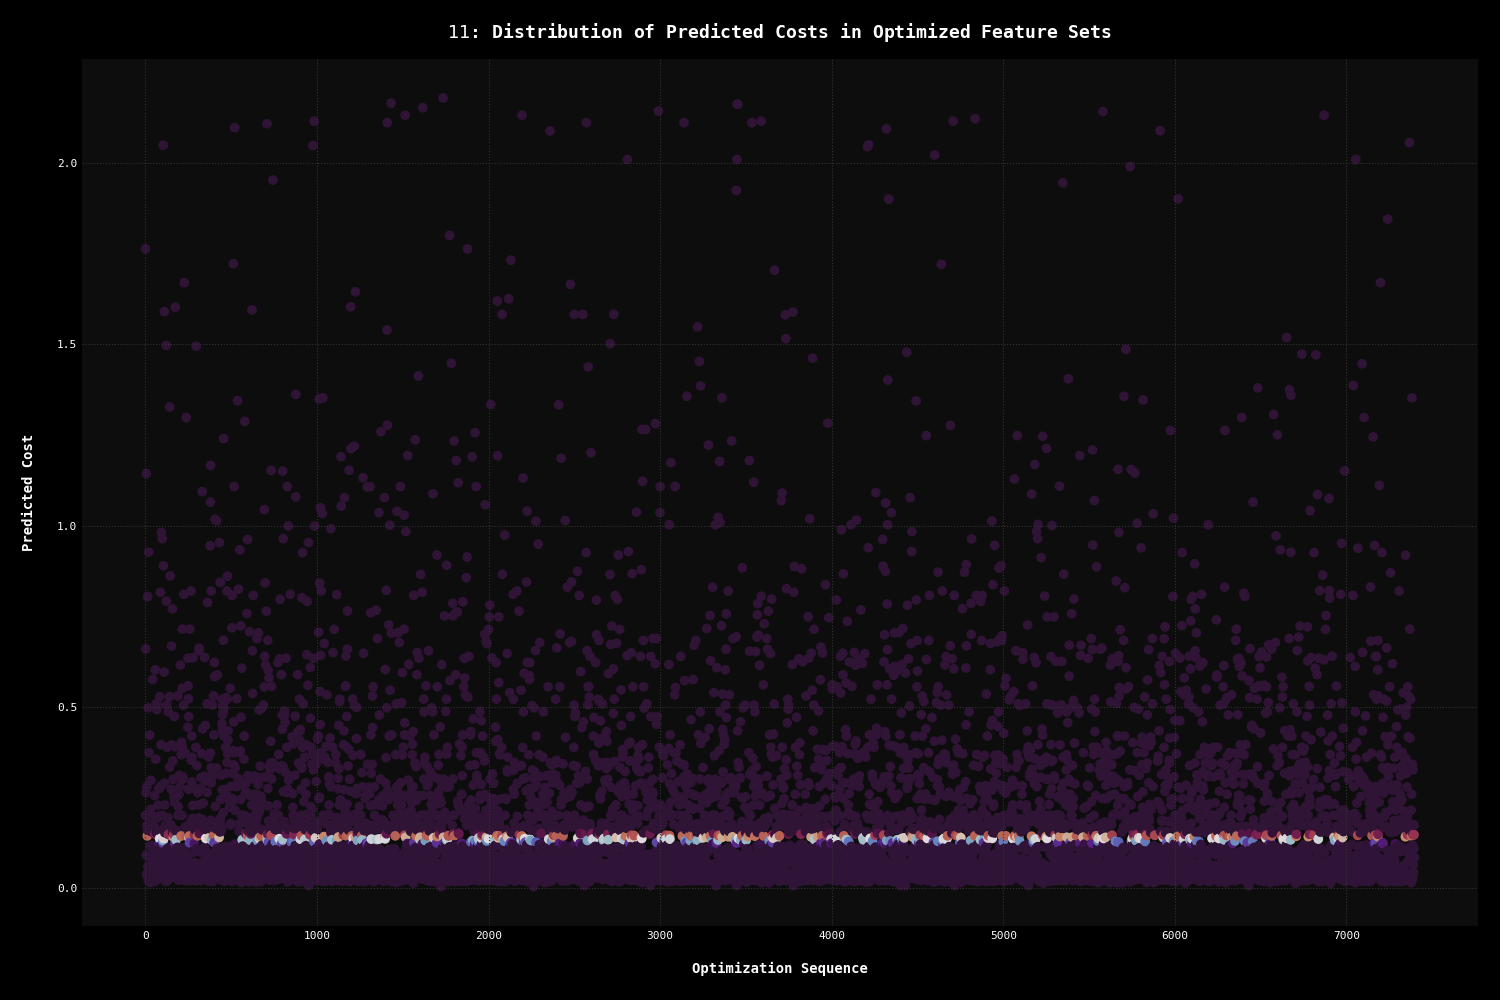
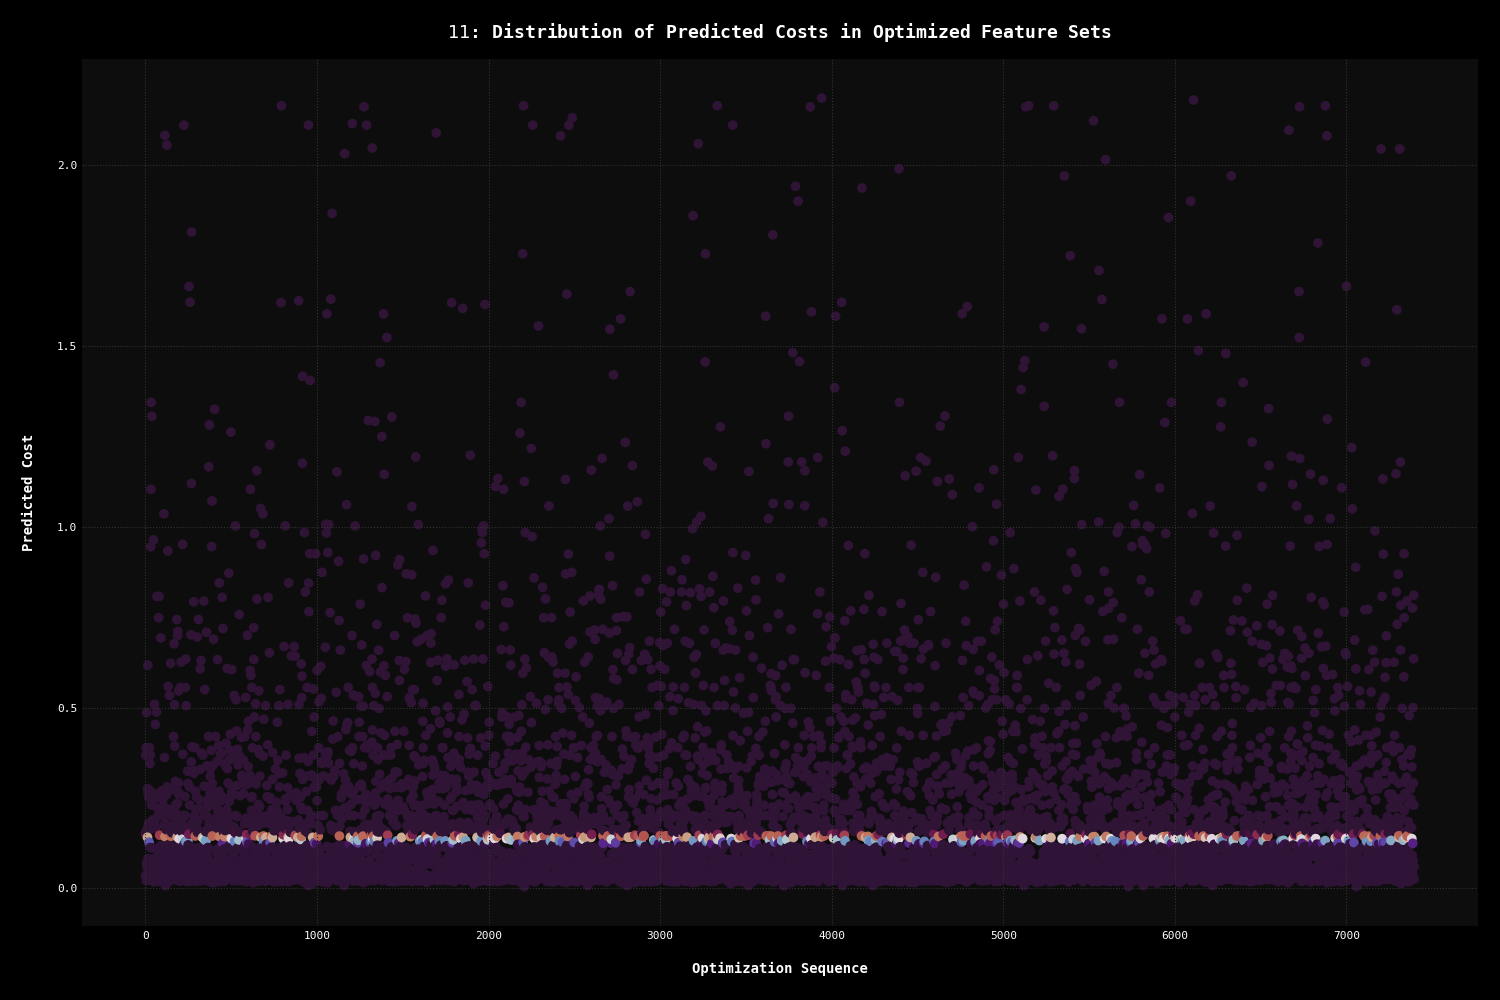
Decomposition complete. Needs optimization.

diff --git a/src/analysis/jp/jp12.py b/src/analysis/jp/jp12.py
@@ -1,4 +1,5 @@
 import matplotlib.pyplot as plt
+import numpy   as np
 import pandas  as pd
 import seaborn as sns
 
@@ -6,12 +7,13 @@ from analysis.jp.flat import prepare_data
 from analysis.jp.jp04 import remove_anomalies
 from analysis.jp.jp06 import lasso
 from analysis.jp.jp09 import random_forest
+from analysis.jp.jp11 import slsqp
+from typing           import List
 from utils.runtime    import find_project_root
 
-## Need a way to grab `shortened_names` for this last chart
-## All scripts need typing hints for arguments and returns
-
-def percent_changes(X, best):
+def percent_changes(X    : np.ndarray, 
+                    sets : List[np.ndarray], 
+                    fts  : List[str]):
     '''
     Visualizes the percentage changes in categorical values after optimization.
 
@@ -21,32 +23,33 @@ def percent_changes(X, best):
         3. Compute and visualize the percentage changes.
 
     Parameters:
-        X_train_lasso (pd.DataFrame): The transformed training feature set from LASSO feature selection.
-        best_rf (RandomForestRegressor): The best-fitted Random Forest model from Randomized Search CV.
+        X    (np.ndarray)       : The transformed training feature set from LASSO feature selection.
+        sets (List[np.ndarray]) : The optimized feature sets that meet the desired cost bounds after optimization.
+        fts  (List[str])        : A list of feature names after feature selection and transformation by the LASSO model.
 
     Produces:
         A bar chart saved as a PNG file and displayed on the screen, showing the percent change in categorical features after optimization.
     '''
 
     # Convert the list of feature arrays into a DataFrame and calculate the means
-    optimized_means = pd.DataFrame(optimized_sets, columns = shortened_names).mean()
-    original_means  = pd.DataFrame(X, columns = shortened_names).mean()
+    optimized_means = pd.DataFrame(sets,        columns = fts).mean()
+    original_means  = pd.DataFrame(X.toarray(), columns = fts).mean()
 
     # Compute and round the percentage changes
-    pct_changes = ((optimized_means - original_means) / original_means).sort_values(ascending=False)
+    pct_changes = ((optimized_means - original_means) / original_means).sort_values(ascending = False)
     pct_changes = pct_changes[~pct_changes.index.str.startswith('num_')]
 
     # Barplot visualization
-    sns.barplot(x=pct_changes, 
-                y=pct_changes.index, 
-                hue=pct_changes, 
-                legend=False,
-                palette='twilight')
+    sns.barplot(x       = pct_changes, 
+                y       = pct_changes.index, 
+                hue     = pct_changes, 
+                legend  = False,
+                palette = 'twilight')
 
     plt.xlabel('Percentage Change (%)')
     plt.ylabel('Feature')
     plt.title('$12$: Percent Change in Categorical Values After Optimization')
-    plt.tight_layout(pad=2.0)
+    plt.tight_layout(pad = 2.0)
 
     # Saving the plot to a file
     file_path = find_project_root('./fig/analysis/jp/12 - Percent Change in Categorical Features After Optimization.png')
@@ -57,10 +60,8 @@ if __name__ == "__main__":
     
     df = prepare_data()
     dfa = remove_anomalies(df)
-    X, _, y, _ = lasso(dfa)
+    X, _, y, _, fts = lasso(dfa)
     best = random_forest(X, y)
-    percent_changes(X, best)
+    sets = slsqp(X, best)
 
-
-    # ptimized_sets, shortened_names = optimize_feature_sets(X_train_lasso, best_rf)
-    # X_train_dense = X_train_lasso.toarray()
+    percent_changes(X, sets, fts)

diff --git a/src/analysis/jp/jp06.py b/src/analysis/jp/jp06.py
@@ -1,4 +1,5 @@
 import matplotlib.pyplot as plt
+import numpy   as np
 import pandas  as pd
 import seaborn as sns
 import re
@@ -11,9 +12,10 @@ from sklearn.linear_model      import LassoCV
 from sklearn.model_selection   import train_test_split
 from sklearn.pipeline          import Pipeline
 from sklearn.preprocessing     import OneHotEncoder, StandardScaler
+from typing                    import List, Tuple
 from utils.runtime             import find_project_root
 
-def lasso(df: pd.DataFrame):
+def lasso(df: pd.DataFrame) -> Tuple[np.ndarray, np.ndarray, pd.Series, pd.Series, List[str]]:
     '''
     Applies LASSO feature selection to determine important features for predicting 'total_cost'.
 
@@ -32,10 +34,11 @@ def lasso(df: pd.DataFrame):
         df (pd.DataFrame): The dataframe returned from the `remove_anomalies` function.
 
     Returns:
-        X_train_lasso (pd.DataFrame) : The transformed training feature set.
-        X_test_lasso  (pd.DataFrame) : The transformed test feature set.
-        y_train       (pd.Series)    : The training target variable.
-        y_test        (pd.Series)    : The test target variable.
+        X_train_lasso   (np.ndarray) : The transformed training feature set.
+        X_test_lasso    (np.ndarray) : The transformed test feature set.
+        y_train         (pd.Series)  : The training target variable.
+        y_test          (pd.Series)  : The test target variable.
+        shortened_names (List[str])  : A list of feature names after feature selection and transformation by the LASSO model.
 
     Produces:
         A bar plot saved as a PNG file and displayed on the screen, showing the importance of each feature determined by LASSO.
@@ -65,7 +68,7 @@ def lasso(df: pd.DataFrame):
                                                                            random_state = 0)))])
 
     # 3: Splitting the data, fitting the model, and selecting features
-    X_train, X_test, y_train, y_test = train_test_split(X, y, random_state=0)
+    X_train, X_test, y_train, y_test = train_test_split(X, y, random_state = 0)
     model.fit(X_train, y_train)
 
     # Transforming data with the selected features
@@ -99,7 +102,7 @@ def lasso(df: pd.DataFrame):
     plt.savefig(file_path)
     plt.show()
 
-    return X_train_lasso, X_test_lasso, y_train, y_test
+    return X_train_lasso, X_test_lasso, y_train, y_test, shortened_names
 
 if __name__ == "__main__":
     

diff --git a/src/analysis/jp/jp11.py b/src/analysis/jp/jp11.py
@@ -1,14 +1,18 @@
 import matplotlib.pyplot as plt
+import numpy as np
 import random
 
 from analysis.jp.flat import prepare_data
 from analysis.jp.jp04 import remove_anomalies
 from analysis.jp.jp06 import lasso
 from analysis.jp.jp09 import random_forest
+from sklearn.ensemble import RandomForestRegressor
 from scipy.optimize   import minimize
+from typing           import List
 from utils.runtime    import find_project_root
 
-def slsqp(X, best):
+def slsqp(X    : np.ndarray, 
+          best : RandomForestRegressor) -> List[np.ndarray]:
     '''
     Performs optimization on feature sets and visualizes the distribution of predicted costs for these optimized sets.
 
@@ -25,8 +29,12 @@ def slsqp(X, best):
             - We use SLSQP to constrain one specific feature (`num__kwh_delivered`) while allowing other features to vary.
 
     Parameters:
-        X    (pd.DataFrame)          : The transformed training feature set from LASSO feature selection.
+        X    (np.ndarray)            : The transformed training feature set from LASSO feature selection.
         best (RandomForestRegressor) : The best-fitted Random Forest model from Randomized Search CV.
+
+    Returns:
+        List[np.ndarray]: A list of optimized feature sets, each represented as an array of feature values. 
+                          These sets are those that meet the specified cost bounds after optimization.
 
     Produces:
         A scatter plot saved as a PNG file and displayed on the screen, showing the distribution of predicted costs.
@@ -78,10 +86,12 @@ def slsqp(X, best):
     plt.savefig(file_path)
     plt.show()
 
+    return optimized_sets
+
 if __name__ == "__main__":
     
     df  = prepare_data()
     dfa = remove_anomalies(df)
-    X, _, y, _ = lasso(dfa)
+    X, _, y, _, _ = lasso(dfa)
     best = random_forest(X, y)
     slsqp(X, best)

diff --git a/src/analysis/jp/jp08.py b/src/analysis/jp/jp08.py
@@ -1,4 +1,6 @@
 import matplotlib.pyplot as plt
+import numpy  as np
+import pandas as pd
 
 from analysis.jp.flat     import prepare_data
 from analysis.jp.jp04     import remove_anomalies
@@ -7,7 +9,10 @@ from sklearn.linear_model import LinearRegression
 from sklearn.metrics      import mean_squared_error, r2_score
 from utils.runtime        import find_project_root
 
-def slr(X_train, X_test, y_train, y_test):
+def slr(X_train : np.ndarray, 
+        X_test  : np.ndarray, 
+        y_train : pd.Series, 
+        y_test  : pd.Series):
     '''
     Fits a Linear Regression model and visualizes predictions against actual values.
 
@@ -25,10 +30,10 @@ def slr(X_train, X_test, y_train, y_test):
             - The average squared difference between the estimated values and the actual value.
 
     Parameters:
-        X_train (pd.DataFrame) : The transformed training feature set from LASSO feature selection.
-        X_test  (pd.DataFrame) : The transformed test feature set from LASSO feature selection.
-        y_train (pd.Series)    : The training target variable.
-        y_test  (pd.Series)    : The test target variable.
+        X_train (np.ndarray) : The transformed training feature set from LASSO feature selection.
+        X_test  (np.ndarray) : The transformed test feature set from LASSO feature selection.
+        y_train (pd.Series)  : The training target variable.
+        y_test  (pd.Series)  : The test target variable.
 
     Produces:
         A scatter plot saved as a PNG file and displayed on the screen, showing the comparison between predicted and actual values.
@@ -74,4 +79,5 @@ if __name__ == "__main__":
     
     df  = prepare_data()
     dfa = remove_anomalies(df)
-    slr(*lasso(dfa))
+    X_train, X_test, y_train, y_test, _ = lasso(dfa)
+    slr(X_train, X_test, y_train, y_test)

diff --git a/src/analysis/jp/jp10.py b/src/analysis/jp/jp10.py
@@ -1,15 +1,19 @@
 import matplotlib.pyplot as plt
-import numpy as np
+import numpy  as np
+import pandas as pd
 
 from analysis.jp.flat        import prepare_data
 from analysis.jp.jp04        import remove_anomalies
 from analysis.jp.jp06        import lasso
 from analysis.jp.jp09        import random_forest
+from sklearn.ensemble        import RandomForestRegressor
 from sklearn.linear_model    import LinearRegression
 from sklearn.model_selection import cross_val_score
 from utils.runtime           import find_project_root
 
-def cross_validation(X, y, best):
+def cross_validation(X    : np.ndarray, 
+                     y    : pd.Series, 
+                     best : RandomForestRegressor):
     '''
     Compares the cross-validation R² scores of the Random Forest and Linear Regression models.
 
@@ -18,7 +22,7 @@ def cross_validation(X, y, best):
         2. Visualize the R² scores for each fold in a bar chart.
 
     Parameters:
-        X    (pd.DataFrame)          : The transformed training feature set from LASSO feature selection.
+        X    (pd.np.ndarray)         : The transformed training feature set from LASSO feature selection.
         y    (pd.Series)             : The training target variable.
         best (RandomForestRegressor) : The best-fitted Random Forest model from Randomized Search CV.
 
@@ -70,6 +74,6 @@ if __name__ == "__main__":
     
     df  = prepare_data()
     dfa = remove_anomalies(df)
-    X, _, y, _ = lasso(dfa)
+    X, _, y, _, _ = lasso(dfa)
     best = random_forest(X, y)
     cross_validation(X, y, best)

diff --git a/src/analysis/jp/jp09.py b/src/analysis/jp/jp09.py
@@ -1,4 +1,6 @@
 import matplotlib.pyplot as plt
+import numpy  as np
+import pandas as pd
 
 from analysis.jp.flat        import prepare_data
 from analysis.jp.jp04        import remove_anomalies
@@ -8,7 +10,8 @@ from sklearn.metrics         import mean_squared_error, r2_score
 from sklearn.model_selection import train_test_split, RandomizedSearchCV
 from utils.runtime           import find_project_root
 
-def random_forest(X, y):
+def random_forest(X : np.ndarray, 
+                  y : pd.Series) -> RandomForestRegressor:
     '''
     Fits a Random Forest Regressor model using Randomized Search CV for hyperparameter tuning and visualizes predictions.
 
@@ -27,8 +30,8 @@ def random_forest(X, y):
               grid search or randomized search.
 
     Parameters:
-        X (pd.DataFrame) : The transformed training feature set from LASSO feature selection.
-        y (pd.Series)    : The training target variable.
+        X (np.ndarray) : The transformed training feature set from LASSO feature selection.
+        y (pd.Series)  : The training target variable.
 
     Returns:
         RandomForestRegressor: The best-fitted Random Forest model from Randomized Search CV.
@@ -102,5 +105,5 @@ if __name__ == "__main__":
     
     df  = prepare_data()
     dfa = remove_anomalies(df)
-    X, _, y, _ = lasso(dfa)
+    X, _, y, _, _ = lasso(dfa)
     random_forest(X, y)

diff --git a/src/analysis/jp/jp07.py b/src/analysis/jp/jp07.py
@@ -1,4 +1,5 @@
 import matplotlib.pyplot as plt
+import numpy as np
 
 from analysis.jp.flat      import prepare_data
 from analysis.jp.jp04      import remove_anomalies
@@ -7,7 +8,7 @@ from sklearn.cluster       import KMeans
 from sklearn.decomposition import PCA
 from utils.runtime         import find_project_root
 
-def kmeans(X):
+def kmeans(X: np.ndarray):
     '''
     Applies K-Means clustering and PCA (Principal Component Analysis) on the dataset for visualization.
 
@@ -27,7 +28,7 @@ def kmeans(X):
               (uncorrelated), with the most important principal components carrying most of the variability in the data.
 
     Parameters:
-        X (pd.DataFrame): The transformed training feature set from LASSO feature selection.
+        X (np.ndarray): The transformed training feature set from LASSO feature selection.
 
     Produces:
         A scatter plot saved as a PNG file and displayed on the screen, showing KMeans clusters in reduced dimensional space.
@@ -61,5 +62,5 @@ if __name__ == "__main__":
     
     df  = prepare_data()
     dfa = remove_anomalies(df)
-    X, _, _, _ = lasso(dfa)
+    X, _, _, _, _ = lasso(dfa)
     kmeans(X)
